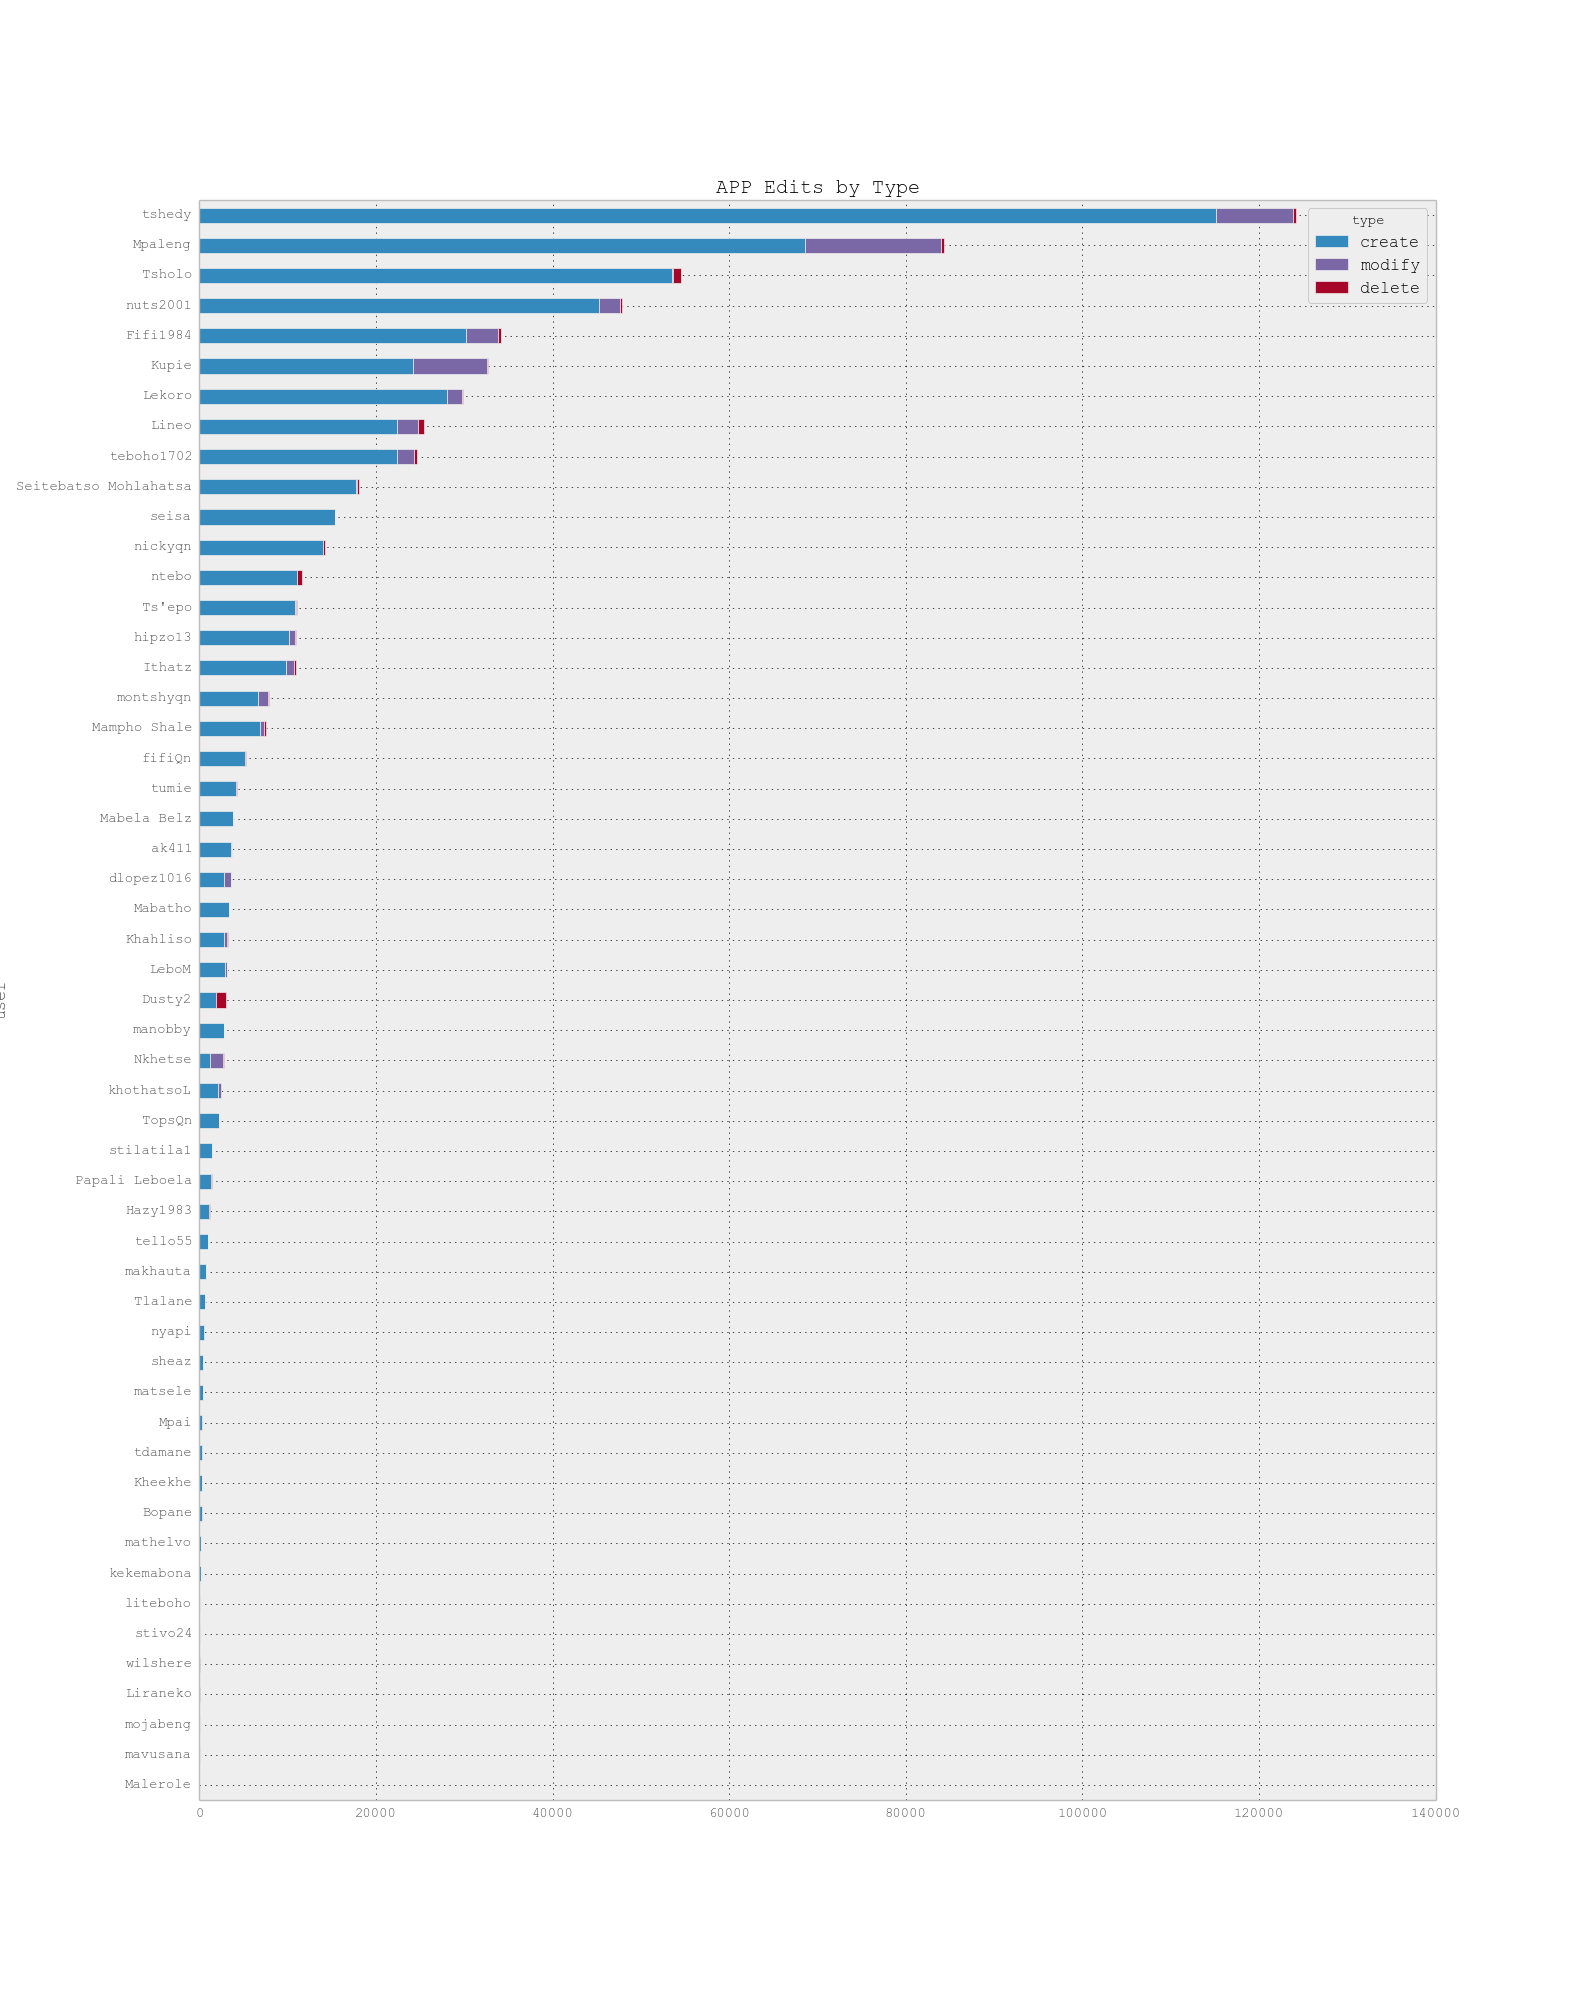
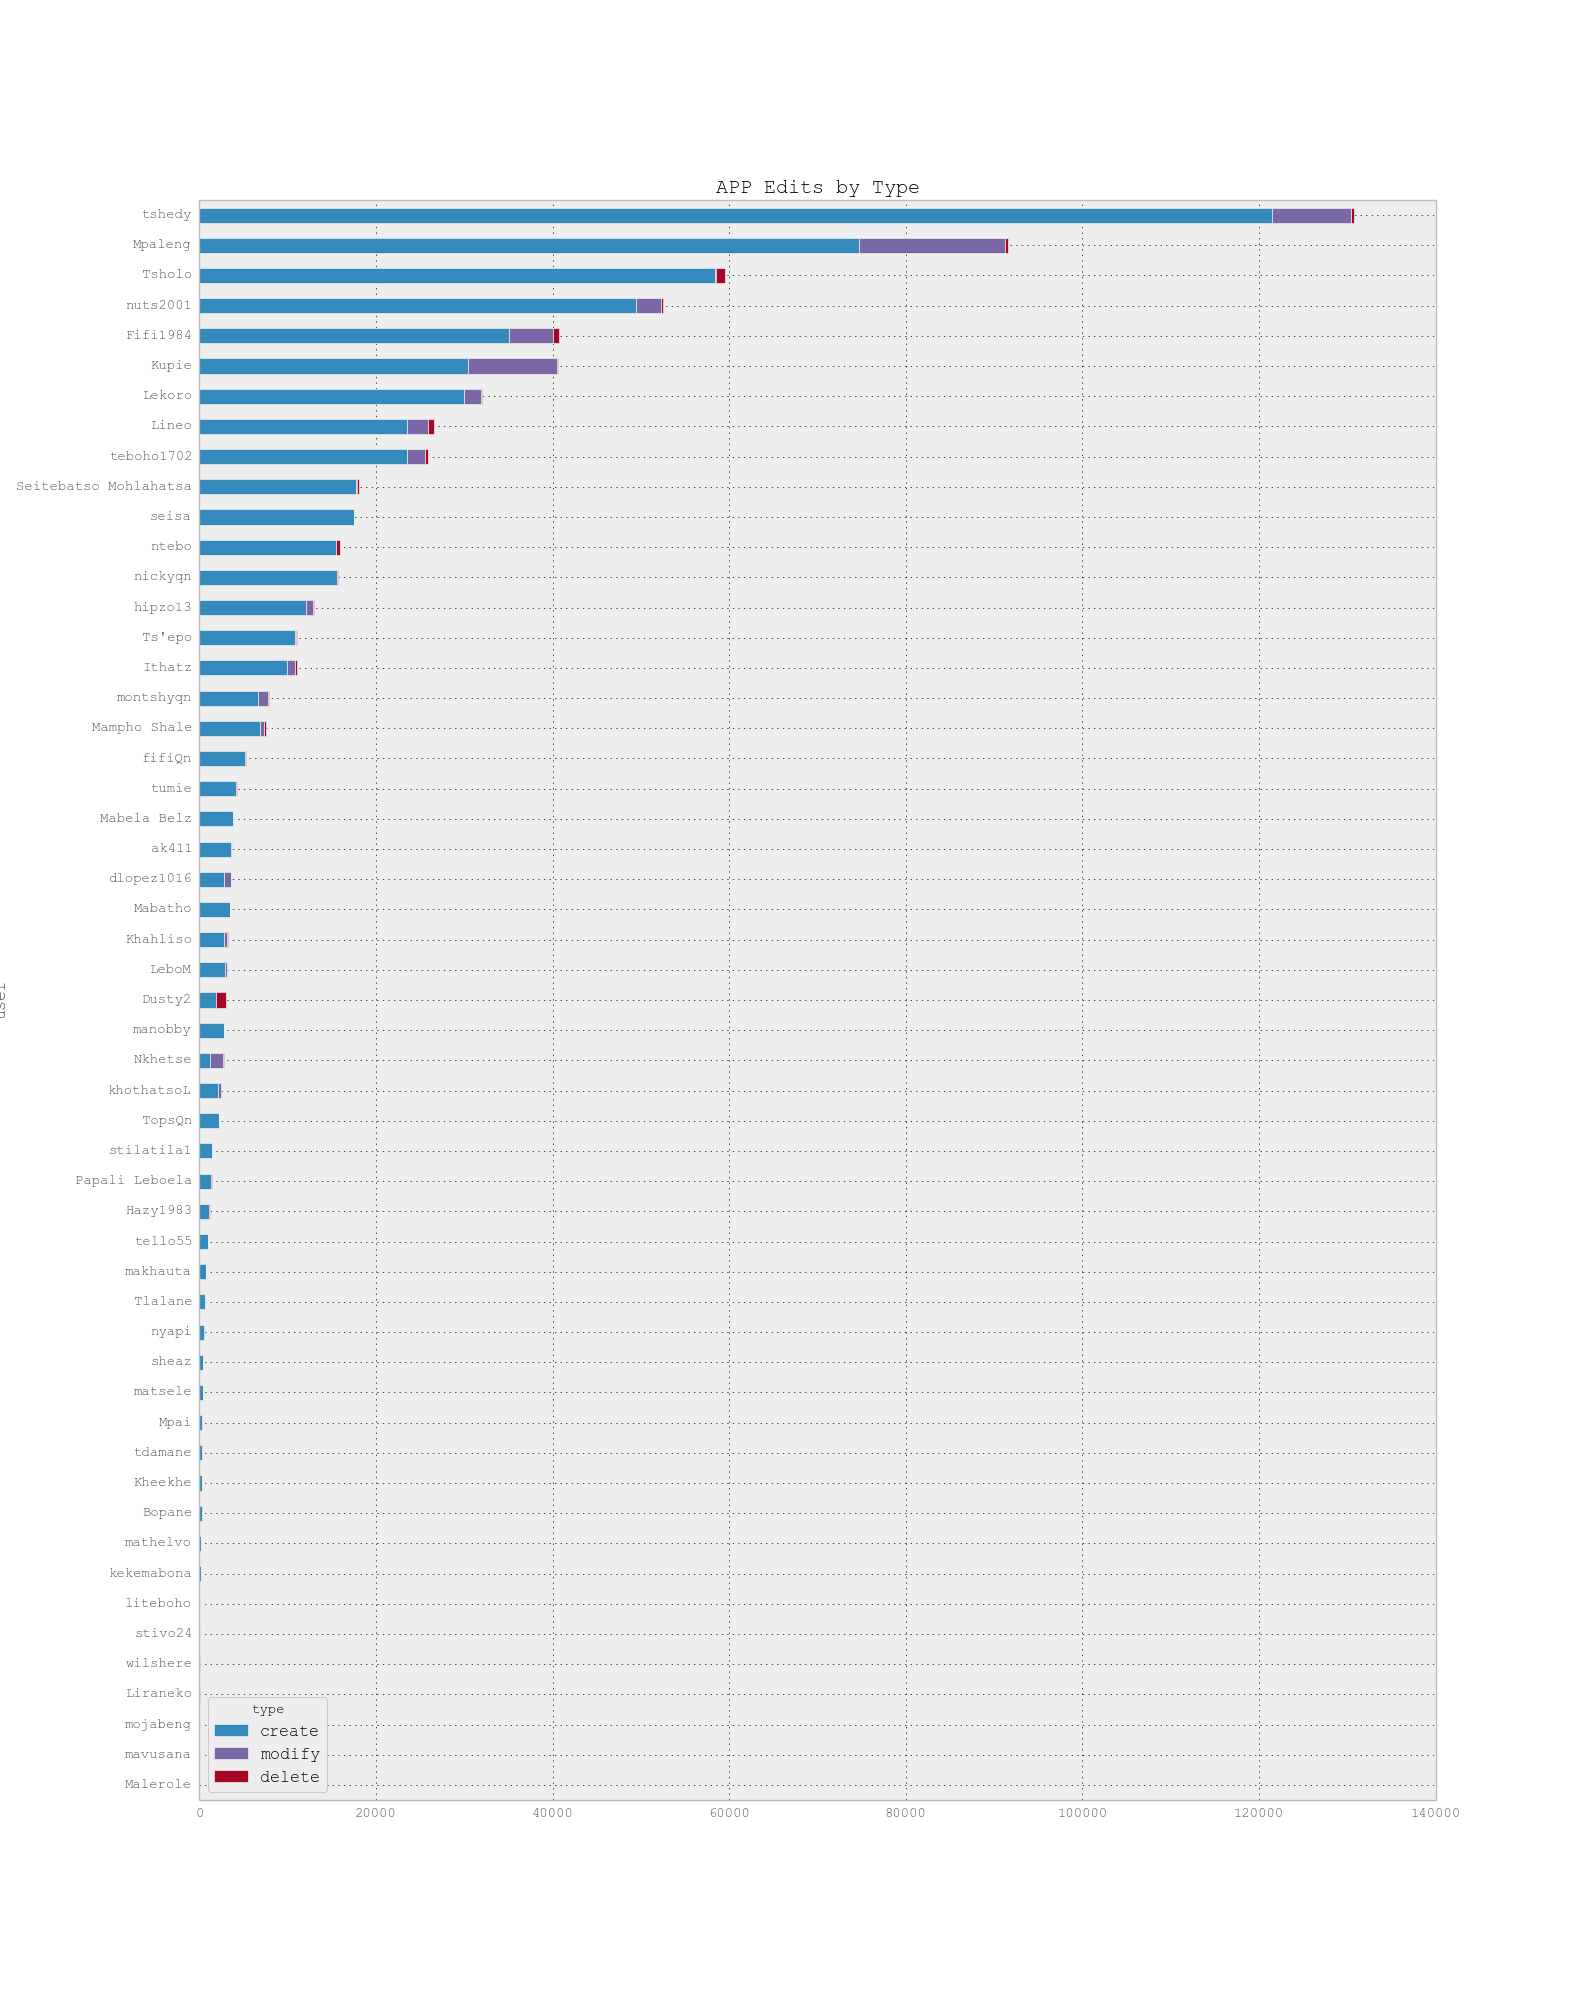
updated with stats from 11-08-2015

diff --git a/index.html b/index.html
@@ -61,74 +61,74 @@
     <tr>
       <th>1</th>
       <td>tshedy</td>
-      <td>115141</td>
-      <td>296</td>
-      <td>8775</td>
-      <td>124212</td>
+      <td>121441</td>
+      <td>303</td>
+      <td>8999</td>
+      <td>130743</td>
     </tr>
     <tr>
       <th>2</th>
       <td>Mpaleng</td>
-      <td>68593</td>
-      <td>295</td>
-      <td>15453</td>
-      <td>84341</td>
+      <td>74723</td>
+      <td>377</td>
+      <td>16507</td>
+      <td>91607</td>
     </tr>
     <tr>
       <th>3</th>
       <td>Tsholo</td>
-      <td>53531</td>
-      <td>820</td>
+      <td>58376</td>
+      <td>993</td>
       <td>164</td>
-      <td>54515</td>
+      <td>59533</td>
     </tr>
     <tr>
       <th>4</th>
       <td>nuts2001</td>
-      <td>45269</td>
+      <td>49506</td>
       <td>196</td>
-      <td>2420</td>
-      <td>47885</td>
+      <td>2779</td>
+      <td>52481</td>
     </tr>
     <tr>
       <th>5</th>
       <td>Fifi1984</td>
-      <td>30153</td>
-      <td>350</td>
-      <td>3699</td>
-      <td>34202</td>
+      <td>35107</td>
+      <td>601</td>
+      <td>5000</td>
+      <td>40708</td>
     </tr>
     <tr>
       <th>6</th>
       <td>Kupie</td>
-      <td>24242</td>
-      <td>99</td>
-      <td>8322</td>
-      <td>32663</td>
+      <td>30419</td>
+      <td>100</td>
+      <td>10113</td>
+      <td>40632</td>
     </tr>
     <tr>
       <th>7</th>
       <td>Lekoro</td>
-      <td>28100</td>
-      <td>75</td>
-      <td>1649</td>
-      <td>29824</td>
+      <td>29934</td>
+      <td>88</td>
+      <td>1996</td>
+      <td>32018</td>
     </tr>
     <tr>
       <th>8</th>
       <td>Lineo</td>
-      <td>22418</td>
+      <td>23498</td>
       <td>665</td>
-      <td>2396</td>
-      <td>25479</td>
+      <td>2411</td>
+      <td>26574</td>
     </tr>
     <tr>
       <th>9</th>
       <td>teboho1702</td>
-      <td>22402</td>
-      <td>291</td>
-      <td>1953</td>
-      <td>24646</td>
+      <td>23561</td>
+      <td>363</td>
+      <td>1970</td>
+      <td>25894</td>
     </tr>
     <tr>
       <th>10</th>
@@ -141,29 +141,37 @@
     <tr>
       <th>11</th>
       <td>seisa</td>
-      <td>15357</td>
+      <td>17507</td>
       <td>25</td>
       <td>4</td>
-      <td>15386</td>
+      <td>17536</td>
     </tr>
     <tr>
       <th>12</th>
-      <td>nickyqn</td>
-      <td>14016</td>
-      <td>181</td>
-      <td>1</td>
-      <td>14198</td>
+      <td>ntebo</td>
+      <td>15422</td>
+      <td>525</td>
+      <td>4</td>
+      <td>15951</td>
     </tr>
     <tr>
       <th>13</th>
-      <td>ntebo</td>
-      <td>11092</td>
-      <td>495</td>
-      <td>4</td>
-      <td>11591</td>
+      <td>nickyqn</td>
+      <td>15543</td>
+      <td>181</td>
+      <td>2</td>
+      <td>15726</td>
     </tr>
     <tr>
       <th>14</th>
+      <td>hipzo13</td>
+      <td>12110</td>
+      <td>160</td>
+      <td>751</td>
+      <td>13021</td>
+    </tr>
+    <tr>
+      <th>15</th>
       <td>Ts'epo</td>
       <td>10885</td>
       <td>101</td>
@@ -171,20 +179,12 @@
       <td>11022</td>
     </tr>
     <tr>
-      <th>15</th>
-      <td>hipzo13</td>
-      <td>10157</td>
-      <td>160</td>
-      <td>664</td>
-      <td>10981</td>
-    </tr>
-    <tr>
       <th>16</th>
       <td>Ithatz</td>
-      <td>9803</td>
-      <td>167</td>
+      <td>9900</td>
+      <td>194</td>
       <td>920</td>
-      <td>10890</td>
+      <td>11014</td>
     </tr>
     <tr>
       <th>17</th>
@@ -198,17 +198,17 @@
       <th>18</th>
       <td>Mampho Shale</td>
       <td>6852</td>
-      <td>214</td>
+      <td>233</td>
       <td>460</td>
-      <td>7526</td>
+      <td>7545</td>
     </tr>
     <tr>
       <th>19</th>
       <td>fifiQn</td>
       <td>5201</td>
-      <td>40</td>
+      <td>49</td>
       <td>14</td>
-      <td>5255</td>
+      <td>5264</td>
     </tr>
     <tr>
       <th>20</th>
@@ -245,10 +245,10 @@
     <tr>
       <th>24</th>
       <td>Mabatho</td>
-      <td>3346</td>
+      <td>3480</td>
       <td>25</td>
       <td>1</td>
-      <td>3372</td>
+      <td>3506</td>
     </tr>
     <tr>
       <th>25</th>
@@ -270,9 +270,9 @@
       <th>27</th>
       <td>Dusty2</td>
       <td>1873</td>
-      <td>1161</td>
+      <td>1198</td>
       <td>0</td>
-      <td>3034</td>
+      <td>3071</td>
     </tr>
     <tr>
       <th>28</th>
@@ -342,9 +342,9 @@
       <th>36</th>
       <td>makhauta</td>
       <td>700</td>
-      <td>67</td>
+      <td>77</td>
       <td>4</td>
-      <td>771</td>
+      <td>781</td>
     </tr>
     <tr>
       <th>37</th>
